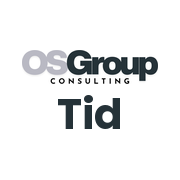
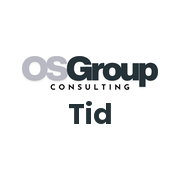
App-ikon: mindre Tid-tekst
Claude-Session: https://claude.ai/code/session_01Y8bbroLia7ucZLsUgXWjAv

Changed region(s): [[0.1111, 0.2778, 0.8889, 0.5], [0.3056, 0.5278, 0.6667, 0.7222]]

diff --git a/index.html b/index.html
@@ -4,7 +4,7 @@
 <title>OS Group Tidsregistrering</title>
 <meta name="theme-color" content="#16212b"><meta name="robots" content="noindex,nofollow">
 <link rel="manifest" href="manifest.webmanifest">
-<link rel="apple-touch-icon" href="apple-touch-icon.png?v=3"><link rel="icon" href="icon-192.png"><meta name="apple-mobile-web-app-capable" content="yes"><meta name="apple-mobile-web-app-title" content="Tidsreg OS Group">
+<link rel="apple-touch-icon" href="apple-touch-icon.png?v=4"><link rel="icon" href="icon-192.png"><meta name="apple-mobile-web-app-capable" content="yes"><meta name="apple-mobile-web-app-title" content="Tidsreg OS Group">
 <link rel="preconnect" href="https://fonts.googleapis.com"><link rel="preconnect" href="https://cdn.jsdelivr.net"><link href="https://fonts.googleapis.com/css2?family=Inter:wght@400;500;600;700;800&display=swap" rel="stylesheet" media="print" onload="this.media='all'">
 <link rel="stylesheet" href="style.css"></head><body class="noauth">
[1 lines of base64/hex data omitted]

diff --git a/sw.js b/sw.js
@@ -1,4 +1,4 @@
-const V='tid-v11',SHELL=['./','index.html','style.css','app.js','dinero.js','config.js','manifest.webmanifest'];
+const V='tid-v12',SHELL=['./','index.html','style.css','app.js','dinero.js','config.js','manifest.webmanifest'];
 const CDN=['cdn.jsdelivr.net','fonts.googleapis.com','fonts.gstatic.com'];
 self.addEventListener('install',e=>{e.waitUntil(caches.open(V).then(c=>c.addAll(SHELL.map(u=>new Request(u,{cache:'reload'})))).then(()=>self.skipWaiting()))});
 self.addEventListener('activate',e=>{e.waitUntil(caches.keys().then(k=>Promise.all(k.filter(x=>x!==V).map(x=>caches.delete(x)))).then(()=>self.clients.claim()))});
